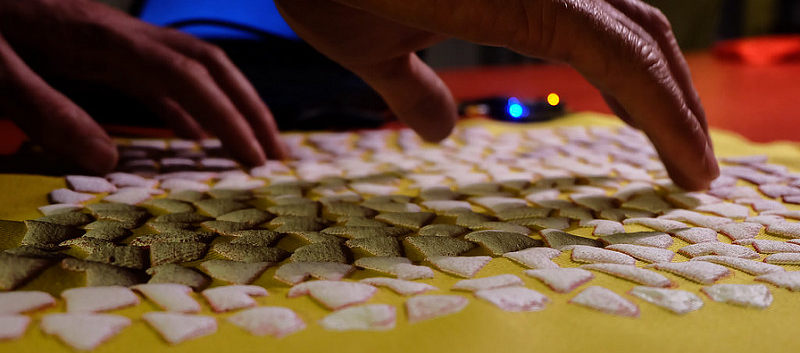
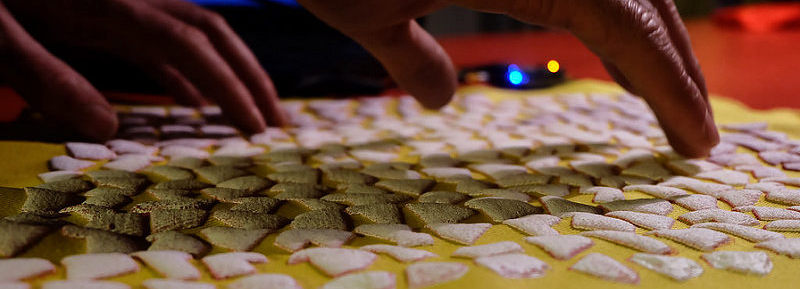
Move and resize pictures.

diff --git a/tei17.tex b/tei17.tex
@@ -223,10 +223,6 @@ Finally our instruments can be draped over bodies. This allows us to use our own
 
 
 \section{Limitations and Future Work}
-While the sensor has a very high resolution along the pressure axis, the spatial resolution is limited by the materials and sensing approach. The minimum spacing between individual sensing strips is constrained by the fabrics we use. We have not established the minimum size yet, but anticipate that there will be a material constrained limiting the resolution.
-Having said that, we have found that software interpolation works quite well, as usually more than one sensing strip is touched at once. We hope to further improve the software filtering by to using trajectory prediction algorithms such as Kalman filters used in the LumoSpheres project \cite{lumospheres}.
-
-On the conductive fabric side, there are improvements possible using custom woven fabric with integrated conductive strips. It can increase the resolution but mostly the robustness and manufacturability. Figure \ref{fig:zebra_fabric} shows a first attempt at this.
 
 \begin{figure}[!h]
     \centering
@@ -234,12 +230,17 @@ On the conductive fabric side, there are improvements possible using custom wove
     \caption{The new custom made conductive fabric.}\label{fig:zebra_fabric}
 \end{figure}
 
+While the sensor has a very high resolution along the pressure axis, the spatial resolution is limited by the materials and sensing approach. The minimum spacing between individual sensing strips is constrained by the fabrics we use. We have not established the minimum size yet, but anticipate that there will be a material constrained limiting the resolution.
+Having said that, we have found that software interpolation works quite well, as usually more than one sensing strip is touched at once. We hope to further improve the software filtering by to using trajectory prediction algorithms such as Kalman filters used in the LumoSpheres project \cite{lumospheres}.
+
+On the conductive fabric side, there are improvements possible using custom woven fabric with integrated conductive strips. It can increase the resolution but mostly the robustness and manufacturability. Figure \ref{fig:zebra_fabric} shows a first attempt at this.
+
 The sensing approach also requires a large number of analog inputs on the micro-controller side. Currently the maximum resolution we can obtain is a matrix of 16 by 16. When we create larger fabric, they do not have a higher resolution, as they still use the 16 by 16 sensing strip design. We are current working on a dedicated micro-controller circuit to improve this.
 
 Finally, we are interested in adding actuation for haptic feedback. Different "analog" solutions were experimented using thick ink to infer finger position and evolution on the sensor (see \ref{fig:zoom}), but an active solution is currently tested further.
 We have investigated using previous experimentations such as BubbleWrap \cite{bubblewrap} or Shade Pixel \cite{shadepixel} however this added too much bulk to the fabric. While we still wish to add haptic feedback, more experimentation is required to decide on a best approach for this.
 
-\begin{figure}
+\begin{figure}[h!]
     \centering
     \includegraphics[width=\columnwidth]{figures/zoom}
     \caption{Illustration of an "analog" haptic feedback experimentation.}\label{fig:zoom}
